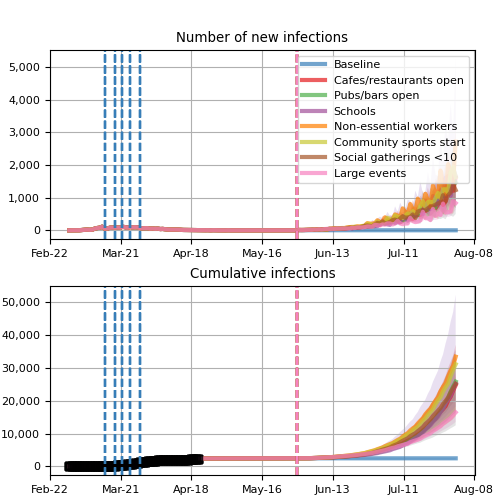
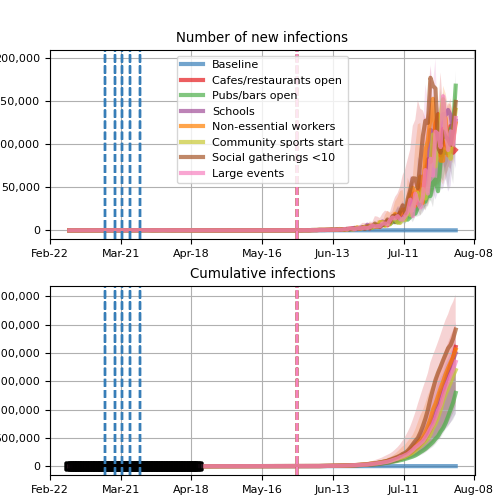
fixing

diff --git a/utils.py b/utils.py
@@ -287,12 +287,11 @@ class UpdateNetworks(cv.Intervention):
                 if len(self.popdict['contacts'][k][lkey]) > 0:
                     inds.append(k)
 
-
-            n_new = self.contact_numbers[lkey] * len(inds) # average contacts for this layer
+            n_new = self.contact_numbers[lkey] * len(inds) # total number of contacts for this layer
             new_contacts = {}  # Initialize
-            new_contacts['p1'] = np.random.choice(inds, min(n_new, len(inds)))
-            new_contacts['p2'] = np.random.choice(inds, min(n_new, len(inds)))
-            new_contacts['beta'] = np.ones(min(n_new, len(inds)), dtype=cvd.default_float)
+            new_contacts['p1'] = np.random.choice(inds, n_new)
+            new_contacts['p2'] = np.random.choice(inds, n_new)
+            new_contacts['beta'] = np.ones(n_new, dtype=cvd.default_float)
 
             # Add to contacts
             sim.people.add_contacts(new_contacts, lkey=lkey)
@@ -301,14 +300,14 @@ class UpdateNetworks(cv.Intervention):
         return
 
 
-
-def create_scen(scenarios, run, beta_policies, imports_dict, trace_policies, clip_policies, pars, extra_pars):
+def create_scen(scenarios, run, beta_policies, imports_dict, trace_policies, clip_policies, pars, extra_pars, popdict):
 
     daily_tests = extra_pars['daily_tests']
     n_days = pars['n_days']
     trace_probs = extra_pars['trace_probs']
     trace_time = extra_pars['trace_time']
     future_tests = extra_pars['future_daily_tests']
+    dynam_layers = extra_pars['dynam_layer']  # note this is in a different dictionary to pars, to avoid conflicts
 
     scenarios[run] = {'name': run,
                       'pars': {
@@ -318,7 +317,8 @@ def create_scen(scenarios, run, beta_policies, imports_dict, trace_policies, cli
                             'n_imports': imports_dict
                         }),
                         cv.test_num(daily_tests=np.append(daily_tests, [future_tests] * (n_days - len(daily_tests))), symp_test=10.0, quar_test=1.0, sensitivity=0.7, test_delay=3, loss_prob=0),
-                        cv.contact_tracing(trace_probs=trace_probs, trace_time=trace_time, start_day=0)
+                        cv.contact_tracing(trace_probs=trace_probs, trace_time=trace_time, start_day=0),
+                        UpdateNetworks(layers=dynam_layers, contact_numbers=pars['contacts'], popdict=popdict)
                             ]
                         }
                      }

diff --git a/policy_changes.py b/policy_changes.py
@@ -112,7 +112,7 @@ def set_baseline(policies, pars, extra_pars, popdict):
     return base_scenarios, baseline_policies
 
 
-def create_scens(torun, policies, baseline_policies, base_scenarios, pars, extra_pars):
+def create_scens(torun, policies, baseline_policies, base_scenarios, pars, extra_pars, popdict):
     import sciris as sc
     import covasim as cv
     import numpy as np
@@ -132,6 +132,7 @@ def create_scens(torun, policies, baseline_policies, base_scenarios, pars, extra
     restart_imports_length = extra_pars['restart_imports_length']
     relax_day = extra_pars['relax_day']
     future_tests = extra_pars['future_daily_tests']
+    dynam_layers = extra_pars['dynam_layer']  # note this is in a different dictionary to pars, to avoid conflicts
 
     relax_scenarios = {}
     scenario_policies = {}
@@ -154,7 +155,8 @@ def create_scens(torun, policies, baseline_policies, base_scenarios, pars, extra
                 }),
                 cv.test_num(daily_tests=np.append(daily_tests, [future_tests] * (n_days - len(daily_tests))), symp_test=10.0, quar_test=1.0,
                             sensitivity=0.7, test_delay=3, loss_prob=0),
-                cv.contact_tracing(trace_probs=trace_probs, trace_time=trace_time, start_day=0) # Don't add tracing app, either it's not in baseline and shouldn't be here or it is in baseline and is relaxed here
+                cv.contact_tracing(trace_probs=trace_probs, trace_time=trace_time, start_day=0), # Don't add tracing app, either it's not in baseline and shouldn't be here or it is in baseline and is relaxed here
+                utils.UpdateNetworks(layers=dynam_layers, contact_numbers=pars['contacts'], popdict=popdict)
             ]
         }
     }
@@ -196,7 +198,7 @@ def create_scens(torun, policies, baseline_policies, base_scenarios, pars, extra
                 else:
                     print(
                         'Invalid policy change type %s added to to_run dict, types should be turn_off, turn_on or replace.' % off_on)
-            scenarios = sc.dcp(utils.create_scen(scenarios, run_pols, beta_schedule, imports_dict, trace_schedule, clip_schedule, pars, extra_pars))
+            scenarios = sc.dcp(utils.create_scen(scenarios, run_pols, beta_schedule, imports_dict, trace_schedule, clip_schedule, pars, extra_pars, popdict))
             del clip_schedule, trace_schedule
             scenario_policies[run_pols] = beta_schedule
 

diff --git a/build_policy_scens.py b/build_policy_scens.py
@@ -54,7 +54,7 @@ if __name__ == '__main__': # need this to run in parallel on windows
                                                   'end_day': None}}
     policies['policy_dates']['tracing_app'] = [policies['trace_policies']['tracing_app']['start_day']]
     # Set up a baseline scenario that includes all policy changes to date
-    base_scenarios, baseline_policies = policy_changes.set_baseline(policies, pars, extra_pars)
+    base_scenarios, baseline_policies = policy_changes.set_baseline(policies, pars, extra_pars, popdict)
 
 
     torun2 = {}
@@ -69,7 +69,7 @@ if __name__ == '__main__': # need this to run in parallel on windows
                                                             'dates': [extra_pars['relax_day']]}
     labels = utils.pretty_labels # A list of short, but nicer labels for policies currently in vic-data
     torun = plot_scenarios.plot_scenarios('1',extra_pars)
-    scenarios, scenario_policies = policy_changes.create_scens(torun, policies, baseline_policies, base_scenarios, pars, extra_pars)
+    scenarios, scenario_policies = policy_changes.create_scens(torun, policies, baseline_policies, base_scenarios, pars, extra_pars, popdict)
 
         #fig = scenario_policies['Full relax'].plot_gantt(max_time=pars['n_days'], start_date=pars['start_day'], pretty_labels=labels)
         #fig.show()

diff --git a/load_parameters.py b/load_parameters.py
@@ -83,7 +83,7 @@ def load_pars():
     extra_pars['restart_imports_length'] = other_par['value'].restart_imports_length
     extra_pars['relax_day'] = other_par['value'].relax_day
     extra_pars['future_daily_tests'] = other_par['value'].future_daily_tests
-    extra_pars['dynam_layer'] = ['large_events']  # ['C', 'beach','entertainment','cafe_restaurant','pub_bar', 'transport','national_parks','public_parks','large_events']
+    extra_pars['dynam_layer'] = ['C', 'beach','entertainment','cafe_restaurant','pub_bar', 'transport','national_parks','public_parks','large_events']
     pars['beta'] = 0.125  # Scale beta
     pars['diag_factor'] = 1.6  # Scale proportion asymptomatic
 

diff --git a/run_baseline.py b/run_baseline.py
@@ -37,7 +37,7 @@ if __name__ == '__main__': # need this to run in parallel on windows
         sc.saveobj(extra_pars['popfile'], popdict)
 
     # manually adjust some parameters for calibration, outside of Excel read-in
-    pars['beta'] = 0.125 # Scale beta
+    pars['beta'] = 0.1 # Scale beta
     pars['diag_factor'] = 1.6 # Scale proportion asymptomatic
     pars['n_days'] = 60
 
